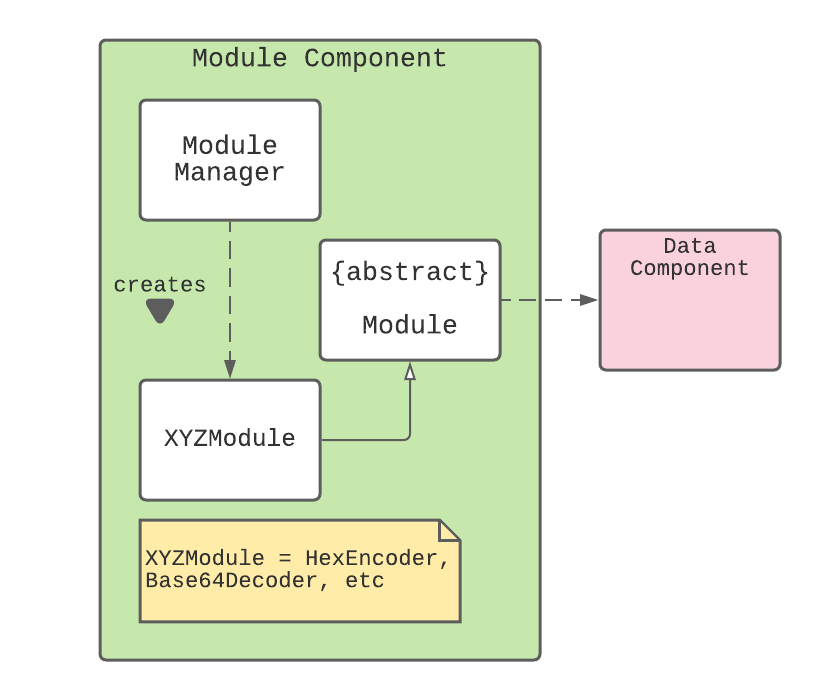
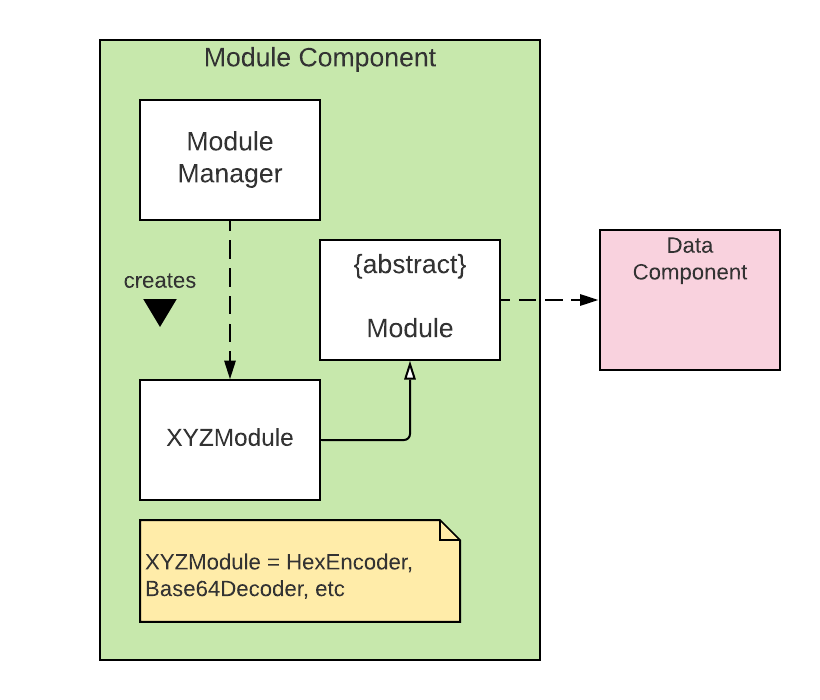
Update images
* Remove other entities in SelectCommand and replace with a comment
* Update logic and module component partial class diagram
* Update logic component explanation to include RecipeCommandParser
* Remove extra activation box outside alt in Parser seq
* Remove extra activation box outside alt in RecipeCommandParser seq
* Remove extra activation box outside alt in SelectCommand seq
*Remove extra activation box outside alt in SelectCommand for module seq
*Remove extra activation box outside alt in SelectCommand for recipe seq

diff --git a/docs/DeveloperGuide.md b/docs/DeveloperGuide.md
@@ -174,6 +174,7 @@ Below is a partial class diagram that shows an overview of the `Logic` component
 The `Logic` component consists of:
 
 - `Parser`: Handles user input and decides the `Command` object to create.
+- `RecipeCommandParser`: When `Parser` detects that a `RecipeXYZComand` object needs to be created, the user input is handed over from `Parser` and will decide the `Command` object to create.
 - `Command`: An abstract class that defines the blueprint for the derived `*Command` classes.
     - `InputCommand`: Takes in a string from the user and sets it as the current `Data` object to perform operations on.
     - `HelpCommand`: Displays all command syntaxes to the user.
